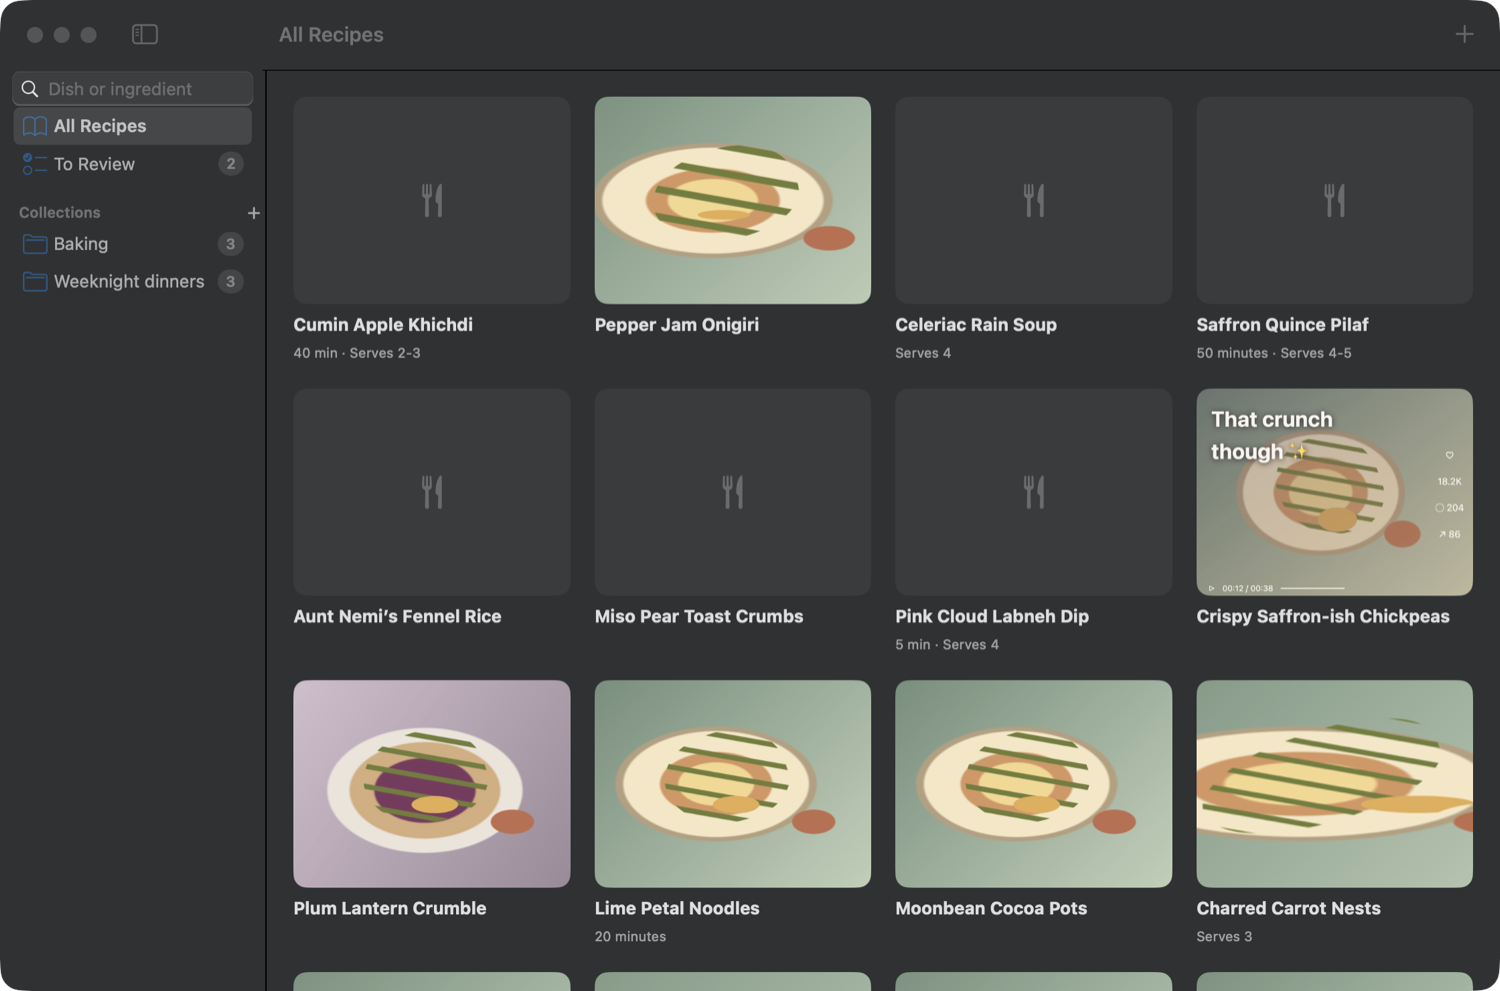
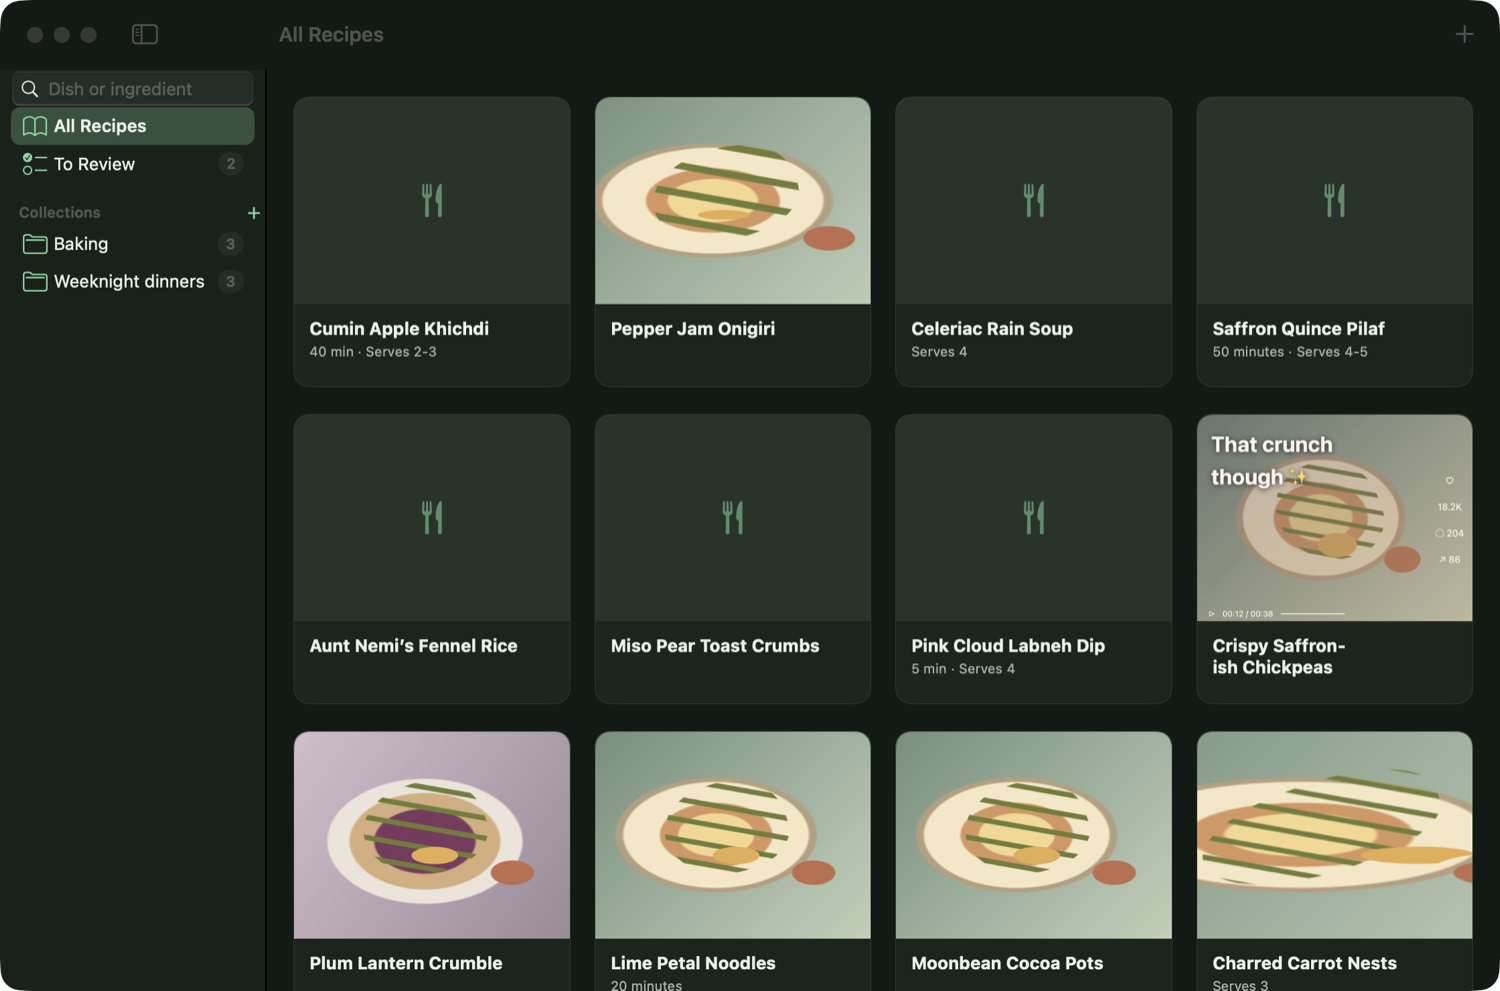
docs: polish the README and refresh its screenshots

diff --git a/README.md b/README.md
@@ -1,29 +1,36 @@
 <p align="center">
-  <img src="assets/icon.png" width="96" alt="Zendish icon">
+  <img src="assets/icon.png" width="104" alt="Zendish icon">
 </p>
 
 <h1 align="center">Zendish</h1>
 
 <p align="center"><strong>Turn recipe screenshots into a cookbook you'll actually use.</strong><br>
 Drop in a screenshot or photo, check the card beside the original, and save it.<br>
-Free, powered by local AI through Ollama, and everything stays on your Mac.</p>
+Free, powered by local AI, and everything stays on your Mac.</p>
 
 <p align="center">
   <a href="https://github.com/zenwyn-naicker/zendish/releases/latest/download/Zendish.dmg"><strong>Download for Mac</strong></a>
 </p>
 
+<p align="center"><sub>Apple Silicon Mac · macOS 14 or later · 16 GB of memory · No account needed</sub></p>
+
 ![Zendish showing a recipe card beside its original screenshot, with a misread quantity flagged](docs/screenshots/review.png)
+
+## How it works
+
+| 1. Add | 2. Check | 3. Cook |
+|---|---|---|
+| Drag in a screenshot or photo of any recipe. Several images can make up one recipe. | Zendish writes a clean card and shows it beside the original, flagging anything that looks wrong. | Save it to your cookbook, find it again in seconds, and export a PDF for the kitchen. |
 
 ## What it does
 
-- **Add images your way:** drag them into the window or choose them from your Mac. Several images can make up one recipe.
-- **Get a clean card:** Zendish reads the text and writes out the title, ingredients, steps, time and servings.
-- **Check it against the original:** each card opens beside its images, so mistakes are easy to spot.
-- **See what needs attention:** Zendish flags quantities that look misread and ingredients it thinks were missed.
+- **Tidy cards from messy screenshots:** ads, comments and clutter are left out, leaving the title, ingredients, steps, time and servings.
+- **Mistakes are easy to catch:** Zendish flags quantities that look misread and ingredients it thinks were missed.
 - **No made-up details:** if a time or serving count isn't clearly labelled in the image, it stays blank.
-- **Build your cookbook:** organise recipes into collections, and search by dish or ingredient.
-- **Take it to the kitchen:** export a recipe or a whole collection as a PDF.
-- **Light or dark:** follows your Mac by default, or choose one in Settings.
+- **A cookbook you'll use:** browse your cards, add a photo, and sort recipes into collections like "Weeknight dinners".
+- **Find anything fast:** search by dish or ingredient.
+- **Ready for the kitchen:** export one recipe or a whole collection as a PDF.
+- **Easy on the eyes:** a calm, fresh design in light or dark.
 
 ## Screenshots
 
@@ -31,17 +38,17 @@ Free, powered by local AI through Ollama, and everything stays on your Mac.</p>
 |---|---|
 | ![A grid of recipe cards with collections in the sidebar](docs/screenshots/cookbook.png) | ![A recipe with its ingredients beside the method](docs/screenshots/recipe.png) |
 
-| Dark mode |
-|---|
-| ![The cookbook in dark mode](docs/screenshots/dark.png) |
+<p align="center">
+  <img src="docs/screenshots/dark.png" width="70%" alt="The cookbook in dark mode">
+</p>
 
-*The recipes and food illustrations shown are invented for testing.*
+<p align="center"><sub>The recipes and food illustrations shown are invented for testing.</sub></p>
 
 ## Install Zendish
 
-You'll need a Mac with Apple Silicon (M1 or newer), macOS 14 or later, 16 GB of memory, about 10 GB of free space, and internet for the first setup. You won't need Terminal or an account.
+It takes about 15 minutes, mostly waiting for downloads. You won't need Terminal.
 
-**1. Install Zendish**
+**1. Install the app**
 
 1. [Download Zendish.dmg](https://github.com/zenwyn-naicker/zendish/releases/latest/download/Zendish.dmg) and open it.
 2. Drag **Zendish** onto the **Applications** folder.
@@ -55,19 +62,15 @@ Zendish is a free project and isn't registered with Apple, so macOS blocks it th
 3. Scroll down to the message about Zendish and click **Open Anyway**.
 4. Enter your Mac password if asked, then click **Open Anyway** again.
 
-**3. Install Ollama**
+**3. Set up the AI**
 
-Ollama is the free app that runs the AI on your Mac, so your recipes never leave it.
+Ollama is the free app that runs the AI on your Mac, so your recipes never leave it. Zendish guides you through this in a bar at the top of the window:
 
-1. Click **Open Ollama** in the bar at the top of Zendish. If Ollama isn't installed yet, this opens its download page.
+1. Click **Open Ollama**. If it isn't installed yet, this opens its download page.
 2. Download Ollama, move it to Applications and open it. You don't need to sign in.
-3. Zendish notices when Ollama is running.
+3. When Zendish notices Ollama is running, click **Download** to get the AI model. It's a one-time download of about 7.6 GB, so you'll need about 10 GB of free space.
 
-**4. Download the AI model**
-
-Click **Download** in the bar at the top of Zendish. It's a one-time download of about 7.6 GB, and you'll see its progress.
-
-**5. Add your first recipe**
+**4. Add your first recipe**
 
 1. Drag a recipe screenshot into the window, or click **Choose Images**.
 2. When the card is ready, open it from **To Review**.
@@ -88,9 +91,22 @@ Click **Download** in the bar at the top of Zendish. It's a one-time download of
 - The AI runs on your Mac through Ollama. Zendish has no accounts, tracking or analytics.
 - Zendish only connects to Ollama on your own Mac. The internet is only used to download Ollama and its model.
 - Your images and recipes stay in `~/Library/Application Support/Zendish`.
-- Recipes you save are for your own use, so please respect the original authors' copyright.
 
-# For developers
+## Common questions
+
+**Is it really free?** Yes. There are no subscriptions, accounts or usage limits.
+
+**How accurate is it?** It's good, but it isn't perfect, which is why every card is checked beside its original before saving. You can see the test results [below](#evaluation).
+
+**Does it work with handwritten recipes?** Not reliably yet. Zendish works best with clear, printed text.
+
+**Can I use it on my phone?** Not yet, because accurate local AI needs more memory than most phones have. Your screenshots can reach your Mac through iCloud Photos or AirDrop.
+
+**Can I share my cookbook publicly?** Zendish is made for personal use, so please respect the original authors' copyright.
+
+---
+
+<h1 align="center">For developers</h1>
 
 ## How it works
 
